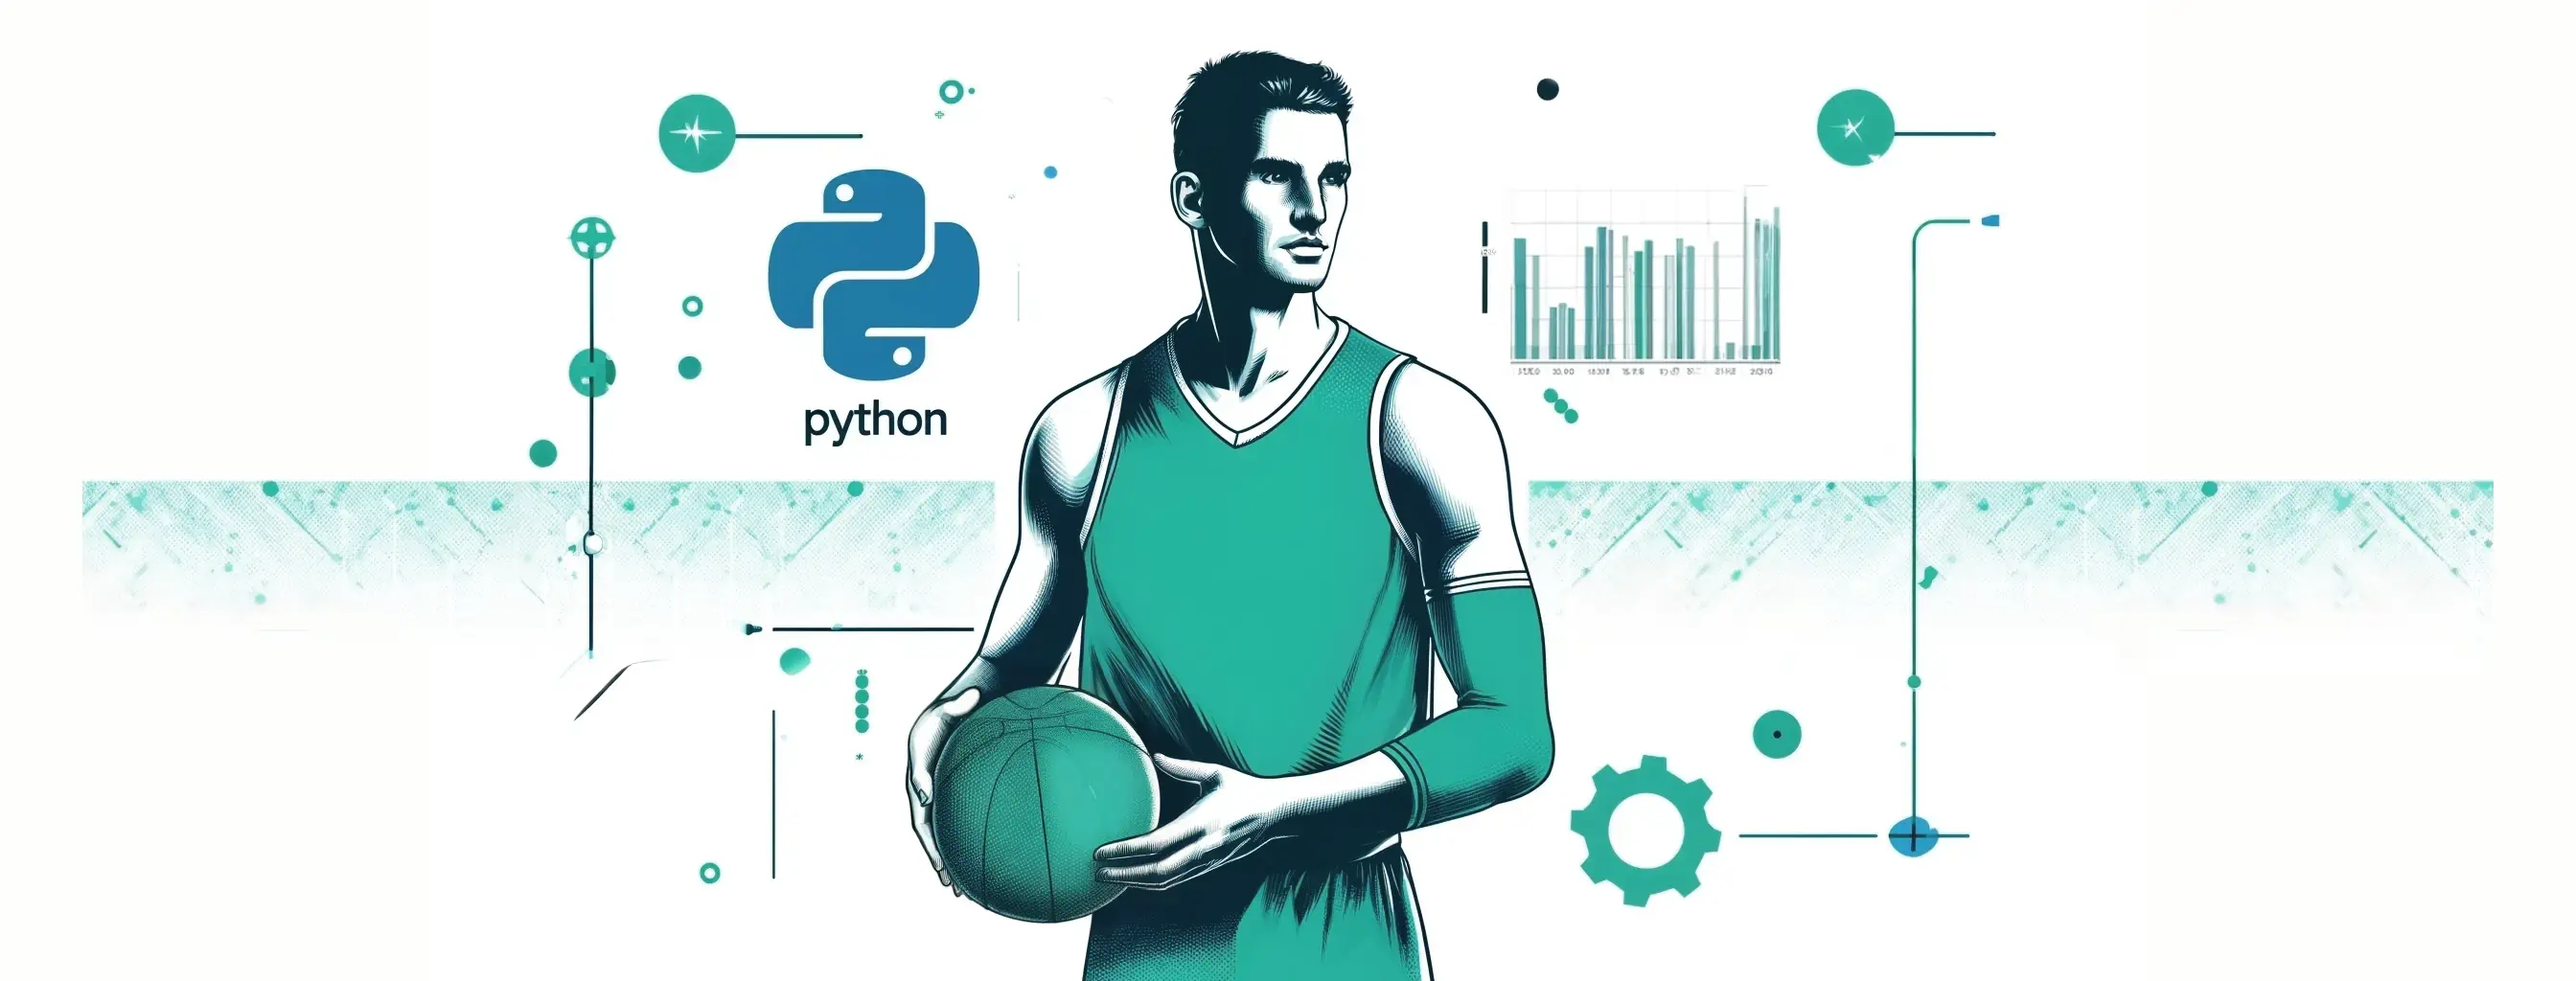
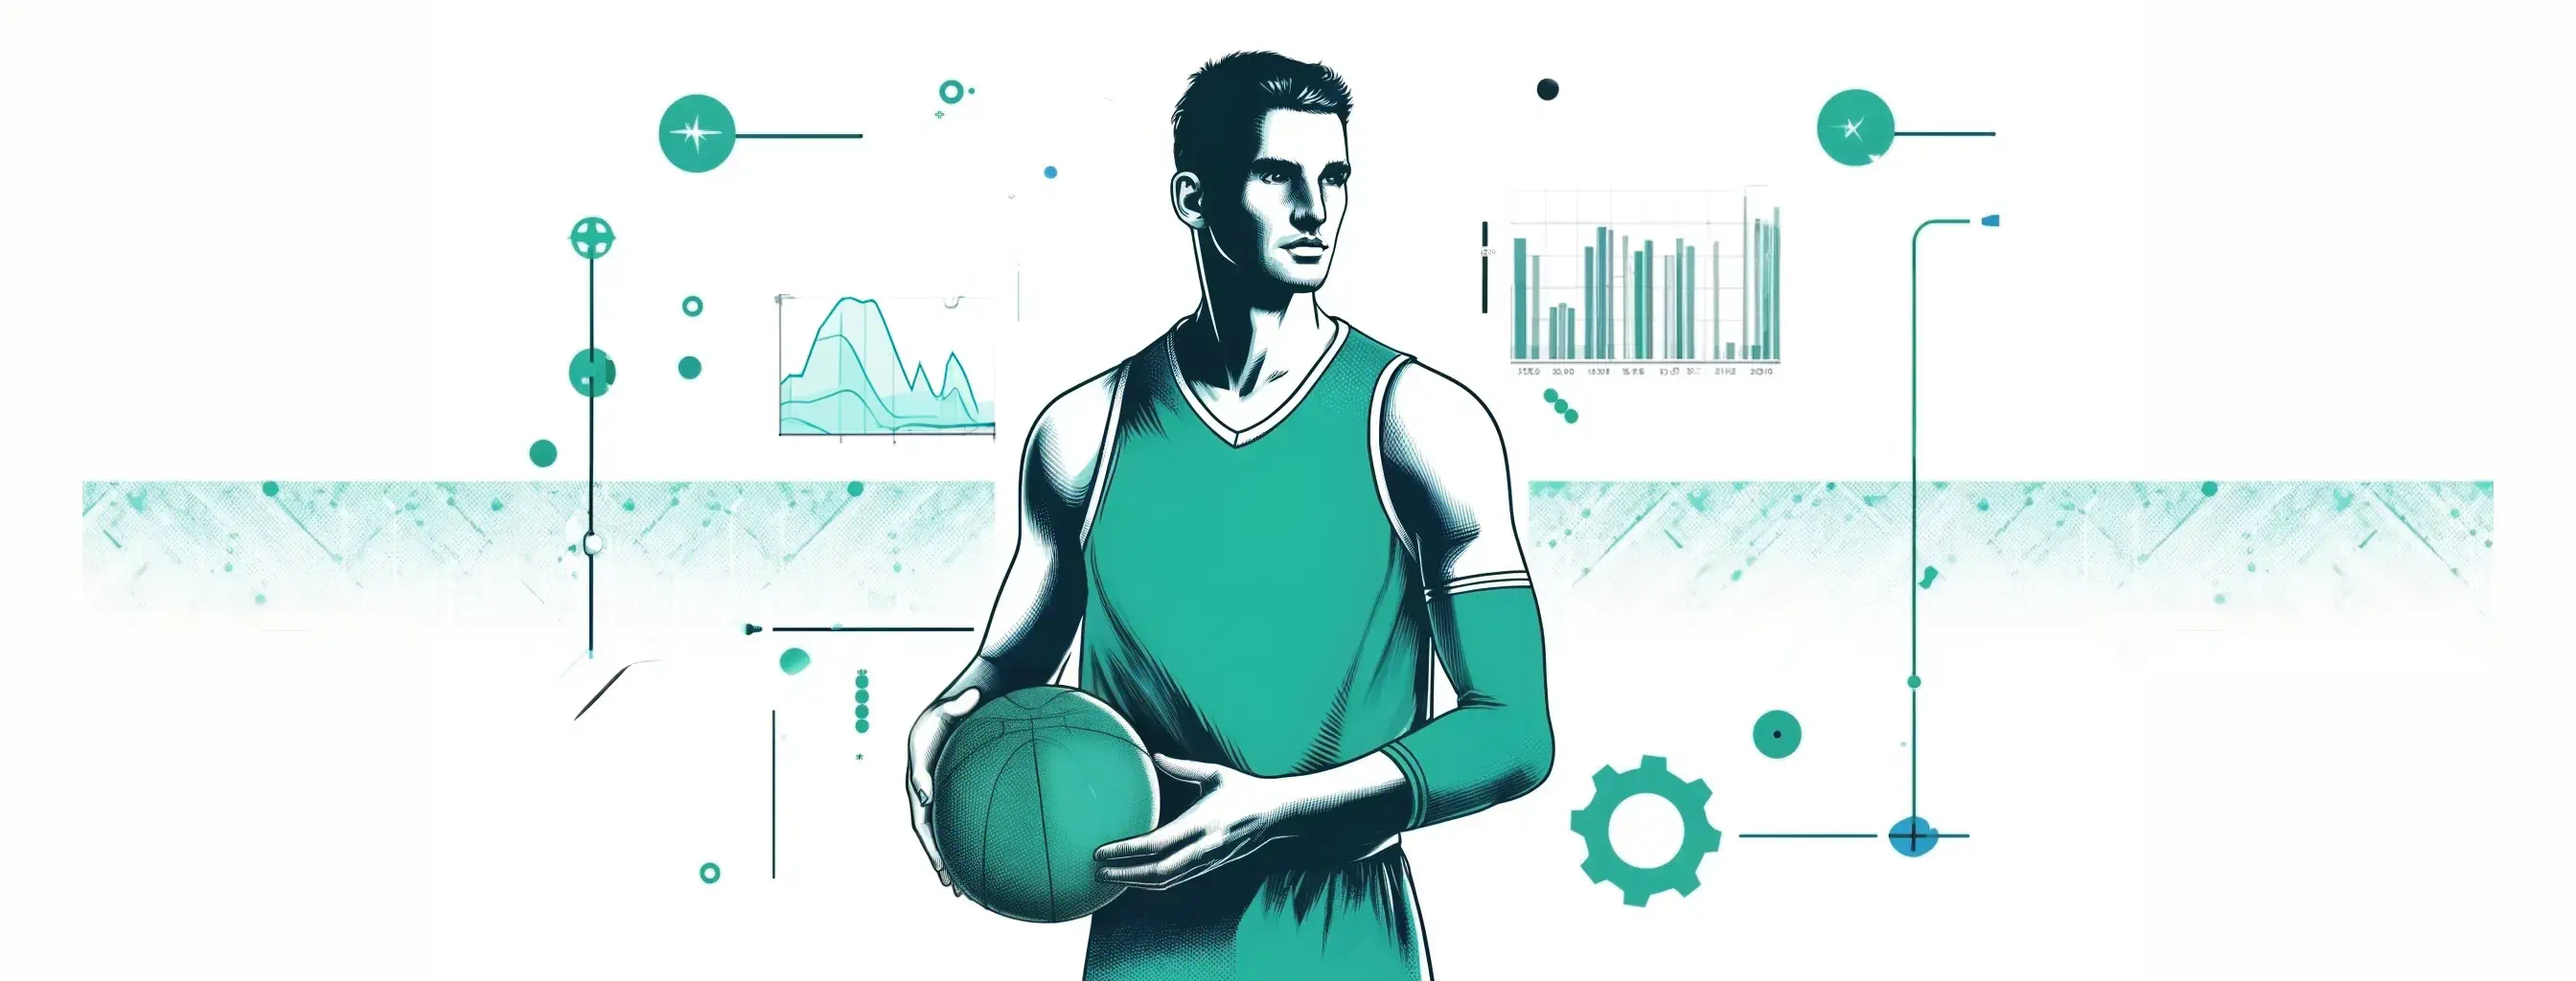
Updated

Changed region(s): [[0.2812, 0.1562, 0.4062, 0.4688]]

diff --git a/content/posts/fabric-madness-2/index.md b/content/posts/fabric-madness-2/index.md
@@ -1,6 +1,6 @@
 ---
 title: "Fabric Madness: Feature Engineering with pyspark"
-summary: "In this series of posts titled Fabric Madness, we're going to be diving deep into some of the most interesting features of Microsoft Fabric, for an end-to-end demonstration of how to train and use a machine learning model."
+summary: "In part 2 of this series we dive deeper into the process of feature engineering."
 date: 2024-04-08T09:37:43Z
 draft: false
 showAuthor: true
@@ -14,6 +14,8 @@ series_order: 2
 ---
 
 ## Introduction
+
+In our [previous post](/posts/fabric-madness-1/) we took a high level view of how to train a machine learning model in Microsoft Fabric. In this post we wanted to dive deeper into the process of feature engineering.
 
 Feature engineering is a crucial part of the development lifecycle for any Machine Learning (ML) systems. It is a step in the development cycle where raw data is processed to better represent its underlying structure and provide additional information that enhance our ML models. Feature engineering is both an art and a science. Even though there are specific steps that we can take to create good features, sometimes, it is only through experimentation that good results are achieved. Good features are crucial in guaranteeing a good system performance.
 
@@ -40,9 +42,12 @@ Having a rough idea of how PySpark works, let's get to the basics.
 
 Although Spark DataFrames may remind us of Pandas DataFrames due to their similarities, the syntax when using PySpark can be a bit different. In this section, we'll go over some of the basics of PySpark, such as reading data, combining DataFrames, selecting columns, grouping data, joining DataFrames, and using functions.
 
+### The Data
+The data we are looking at is from the 2024 US college basketball tournaments, which was obtained from the on-going March Machine Learning Mania 2024 Kaggle competition, the details of which can be found [here](https://medium.com/r/?url=https%3A%2F%2Fwww.kaggle.com%2Fcompetitions%2Fmarch-machine-learning-mania-2024%2Foverview), and is licensed under CC BY 4.0
+
 ### Reading data
 
-As mentioned in the previous post of this series, the first step is usually to create a Lakehouse and upload some data. Then, when creating a Notebook, we can attach it to the created Lakehouse, and we'll have access to the data stored there.
+As mentioned in the [previous post](/posts/fabric-madness-1/) of this series, the first step is usually to create a Lakehouse and upload some data. Then, when creating a Notebook, we can attach it to the created Lakehouse, and we'll have access to the data stored there.
 
 PySpark Dataframes can read various data formats, such as CSV, JSON, Parquet, and others. Our data is stored in CSV format, so we'll be using that, like in the following code snippet:
 
